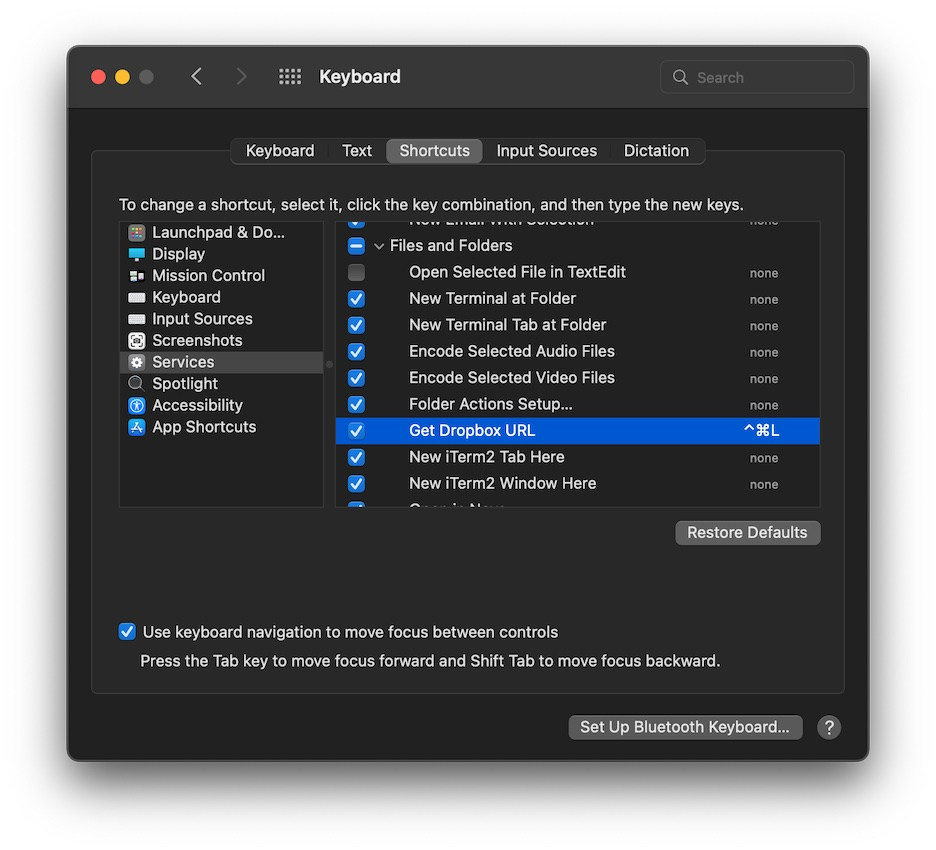
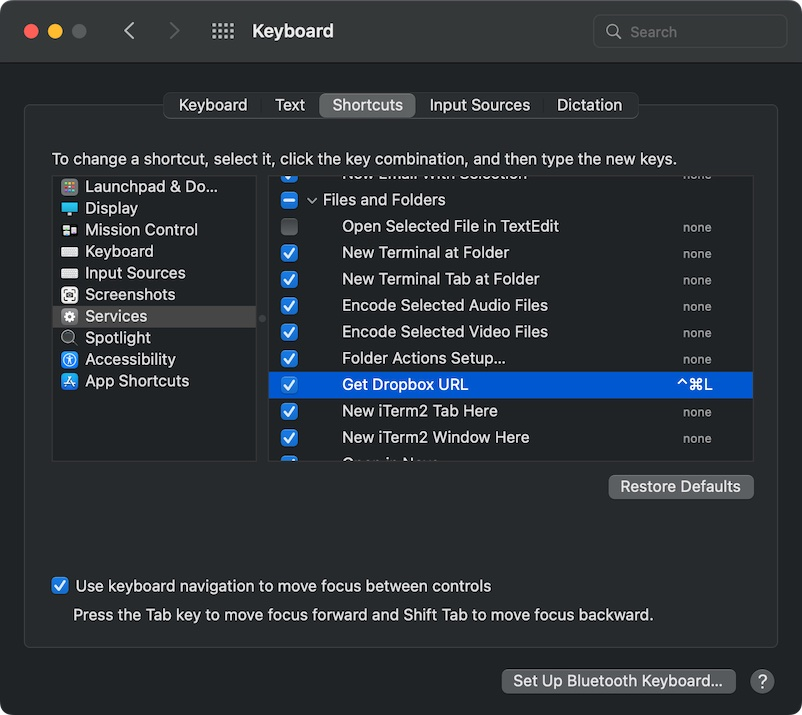
Remove drop shadow on screenshots.

diff --git a/README.md b/README.md
@@ -54,7 +54,9 @@ My goal was to have a keyboard shortcut in Finder that would copy a Dropbox URL 
         $HOME/bin/get_dropbox_url.py "$f"
     done
     ```
-    Make sure you change the popup button to _Pass input as arguments_.
+    > **Warning**
+    >
+    > Make sure you change the popup button to _Pass input as arguments_.
 
     > **Warning**
     >
